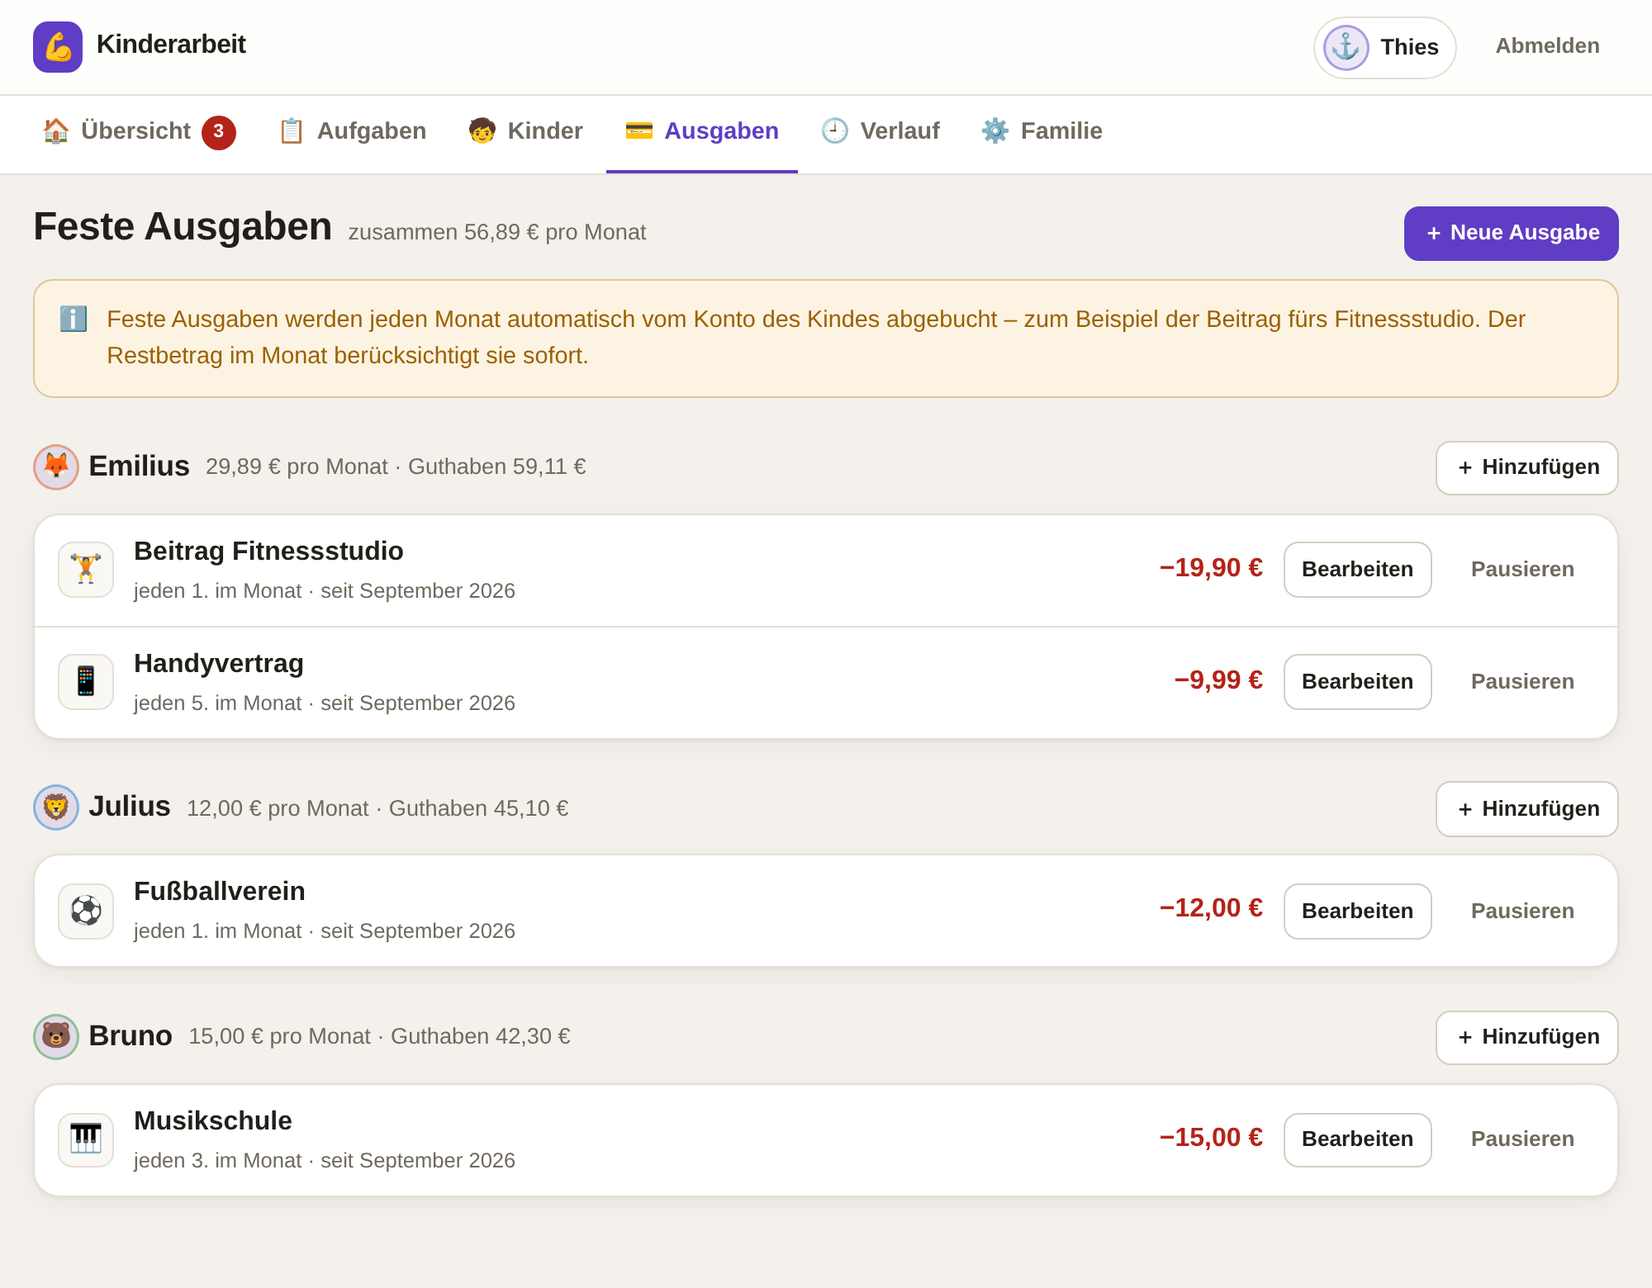
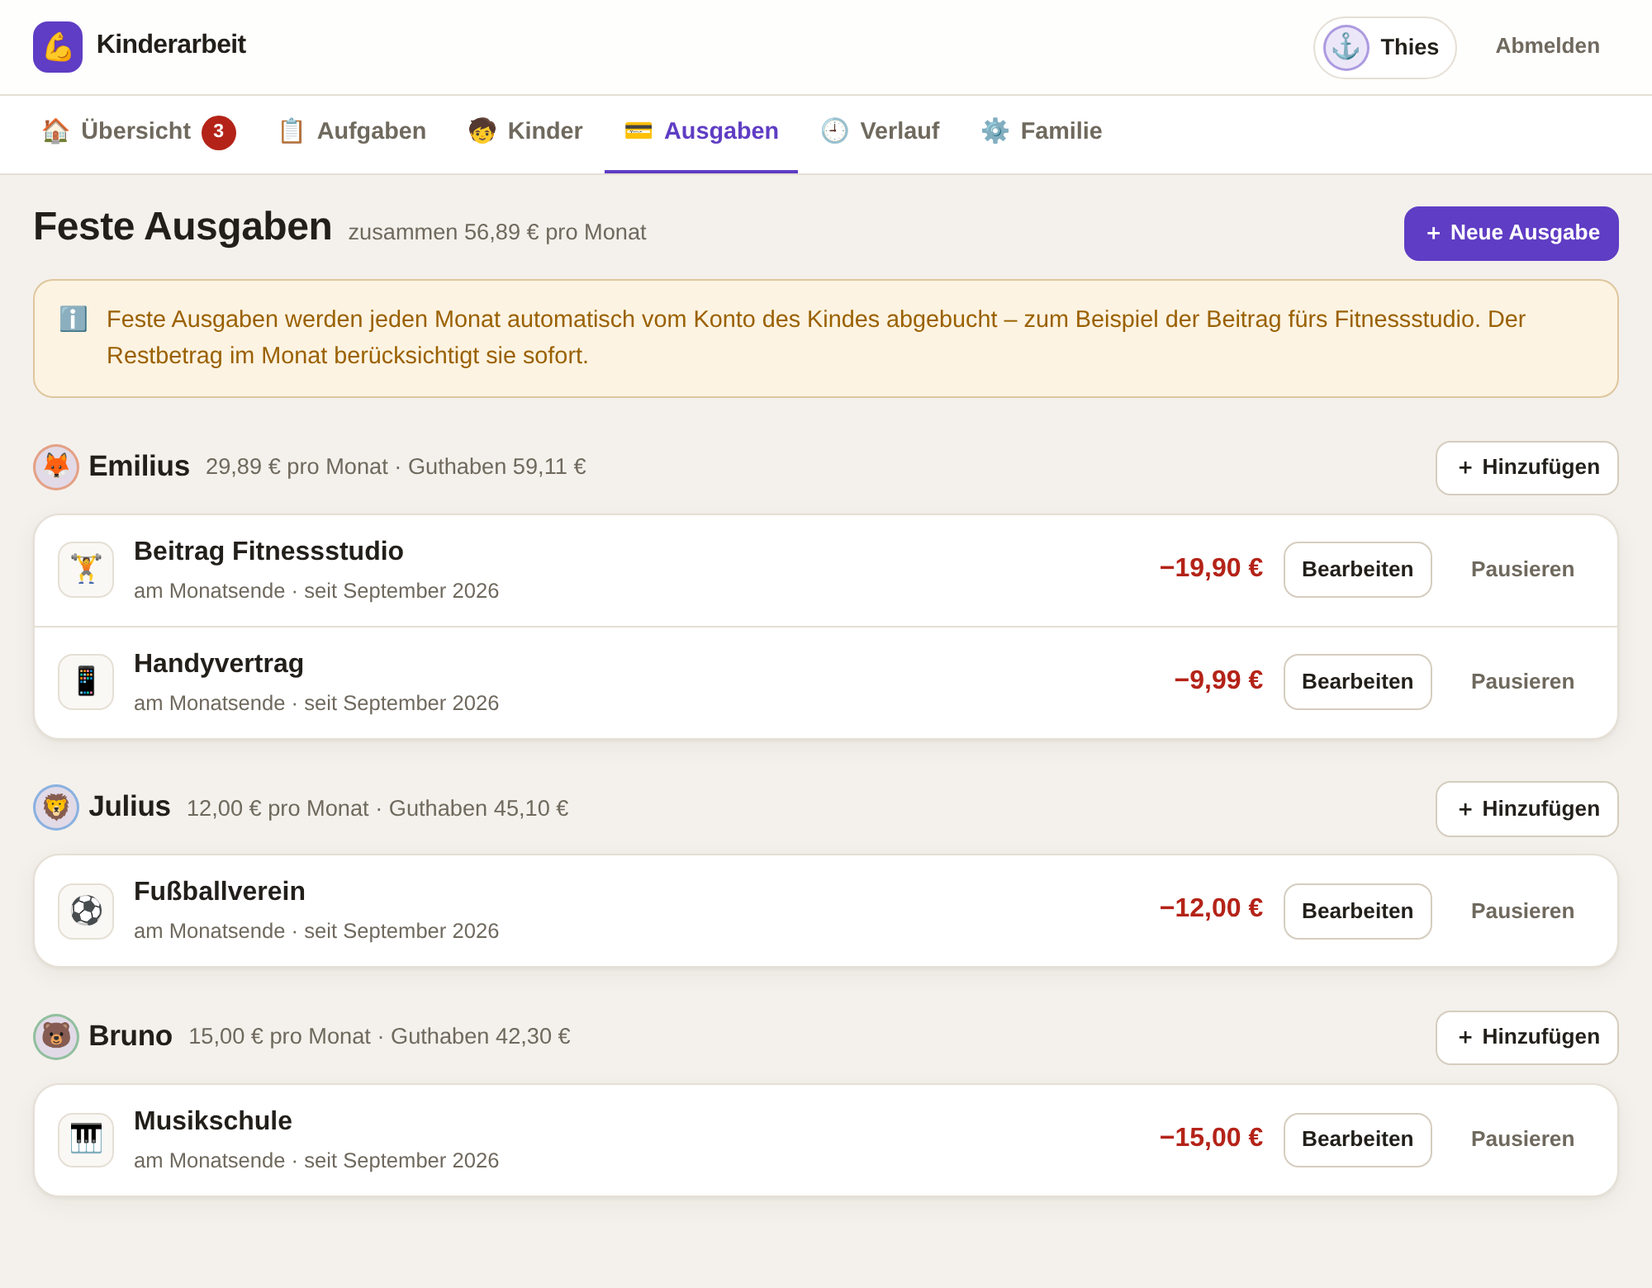
Feste Ausgaben am Monatsende, dazu eine Monatsübersicht
Am 1. stand auf den Konten ein Minus, bevor die Kinder überhaupt etwas
verdienen konnten: die festen Ausgaben wurden am Monatsanfang abgebucht.
Jetzt gehen sie am Monatsende ab, und zwar um 23 Uhr - so steht die
Abbuchung in der Liste unter dem, was am selben Tag noch dazukam.

Technisch bleibt es bei einer Spalte: day_of_month = 31 heißt "Monatsende",
weil Billing jeden Tag jenseits der Monatslänge ohnehin auf den letzten Tag
legt. Das Formular bietet "am Monatsende" als Vorauswahl an, ein fester Tag
bleibt für Abbuchungen möglich, die wirklich früher fällig sind. Bestehende
Datenbanken stellt Database::expensesToMonthEnd() einmalig um; wer danach
von Hand einen anderen Tag setzt, behält ihn.

Neu ist "Monat für Monat": unter Mein Konto und auf der Detailseite eines
Kindes steht jeder Monat mit seinem Saldo untereinander - verdient, feste
Ausgaben, Auszahlungen, Korrekturen und was unter dem Strich blieb, ob plus
oder minus. Jeder Monat steht für sich, am 1. fängt die Rechnung wieder bei
null an; das Guthaben über alle Monate bleibt oben im Kopf stehen. Ein Klick
auf den Monat zeigt die Buchungen dazu. Die Liste ist ein gemeinsames Teil
(views/partials/month-list.php), Eltern- und Kinderansicht zeigen dasselbe.

Der Beispielbestand lässt die festen Ausgaben schon im Vormonat beginnen,
damit die Übersicht einen vollständigen Monat zeigt. Bilder neu aufgenommen,
dazu eine neue Aufnahme der Monatsübersicht.
[…]

diff --git a/bin/selftest.php b/bin/selftest.php
@@ -775,6 +775,63 @@ check('Guthaben ohne Zuschlag',       Ledger::balance($childId), $balance + 200)
 check('Aufraeumen: zurueckgenommen',  Completions::revoke($ohne, (int)$thies['id']), true);
 check('Guthaben wieder am Ausgang',   Ledger::balance($childId), $balance);
 
+echo "\nFeste Ausgaben am Monatsende\n";
+check('Beschriftung Monatsende',      Expenses::dayLabel(31), 'am Monatsende');
+check('Beschriftung fester Tag',      Expenses::dayLabel(5), 'jeden 5. im Monat');
+check('Auch der 29. gilt als Ende',   Expenses::dayLabel(29), 'am Monatsende');
+check('Ohne Angabe ans Monatsende',   (int)Expenses::find(Expenses::create([
+    'child_id'     => (int)$julius['id'],
+    'title'        => 'Vereinsbeitrag',
+    'amount_cents' => 1000,
+    'start_month'  => current_month(),
+    'created_by'   => (int)$thies['id'],
+]))['day_of_month'], Expenses::DAY_MONTH_END);
+
+// Eine Ausgabe, die seit zwei Monaten am Monatsende abgebucht wird.
+$endeId = Expenses::create([
+    'child_id'     => (int)$julius['id'],
+    'title'        => 'Fitnessstudio',
+    'amount_cents' => 1990,
+    'day_of_month' => Expenses::DAY_MONTH_END,
+    'start_month'  => month_shift(current_month(), -2),
+    'created_by'   => (int)$thies['id'],
+]);
+Billing::run(true);
+
+$tage = [];
+foreach (Ledger::forChild((int)$julius['id'], null, 50) as $buchung) {
+    if (($buchung['ref_type'] ?? '') === 'expense' && (int)$buchung['ref_id'] === $endeId) {
+        $tage[substr((string)$buchung['booked_at'], 0, 7)] = (string)$buchung['booked_at'];
+    }
+}
+$vormonat   = month_shift(current_month(), -1);
+$letzterTag = date('t', (int)strtotime($vormonat . '-01 12:00:00'));
+check('Vormonat ist abgebucht',       isset($tage[$vormonat]), true);
+check('Und zwar am letzten Tag',      substr($tage[$vormonat] ?? '', 0, 10), $vormonat . '-' . $letzterTag);
+check('Abends, nach dem Verdienten',  substr($tage[$vormonat] ?? '', 11), '23:00:00');
+check('Laufender Monat noch nicht',   isset($tage[current_month()]), (int)date('j') === (int)date('t'));
+
+echo "\nMonat fuer Monat\n";
+$uebersicht = Ledger::monthlyTotals((int)$julius['id']);
+check('Mehrere Monate aufgelistet',   count($uebersicht) >= 2, true);
+check('Neuester Monat zuerst',        $uebersicht[0]['month'] > $uebersicht[1]['month'], true);
+
+$zeile = null;
+foreach ($uebersicht as $m) {
+    if ($m['month'] === $vormonat) { $zeile = $m; }
+}
+check('Vormonat ist dabei',           $zeile !== null, true);
+check('Feste Ausgaben im Vormonat',   $zeile['expenses'] ?? 0, 1990);
+check('Saldo ist die Bilanz des Monats',
+      ($zeile['earned'] ?? 0) + ($zeile['bonus'] ?? 0) + ($zeile['corrections'] ?? 0)
+      - ($zeile['expenses'] ?? 0) - ($zeile['payouts'] ?? 0),
+      $zeile['net'] ?? 0);
+check('Saldo deckt sich mit monthSummary',
+      $zeile['net'] ?? 0, Ledger::monthSummary((int)$julius['id'], $vormonat)['net']);
+check('Summe aller Monate ist der Kontostand',
+      array_sum(array_column(Ledger::monthlyTotals((int)$julius['id'], 240), 'net')),
+      Ledger::balance((int)$julius['id']));
+
 // Aufraeumen
 foreach (glob($tmp . '/*') ?: [] as $file) {
     @unlink($file);

diff --git a/app/views/partials/month-list.php b/app/views/partials/month-list.php
@@ -1,0 +1,63 @@
+<?php
+/**
+ * Monat fuer Monat mit dem Saldo des jeweiligen Monats.
+ *
+ * Jeder Monat steht fuer sich: am 1. faengt die Rechnung bei null an, am
+ * Monatsende gehen die festen Ausgaben ab. Was dann unter dem Strich steht,
+ * ist der Saldo – ob plus oder minus.
+ *
+ * @var array  $monate  Zeilen aus Ledger::monthlyTotals()
+ * @var string $target  Seite, auf die ein Monat verlinkt ('' = keine Links)
+ * @var array  $extra   zusaetzliche Parameter fuer diesen Link
+ */
+defined('KINDERARBEIT') || exit;
+
+$target = $target ?? '';
+$extra  = $extra  ?? [];
+$jetzt  = current_month();
+?>
+
+<?php if (!$monate): ?>
+  <div class="card empty">
+    <span class="empty__icon" aria-hidden="true">📅</span>
+    Noch kein Monat mit Buchungen.
+  </div>
+<?php else: ?>
+  <div class="card card--flush">
+    <ul class="list">
+      <?php foreach ($monate as $monat): ?>
+        <?php
+        $saldo  = (int)$monat['net'];
+        $laeuft = $monat['month'] === $jetzt;
+
+        // Nur nennen, was es in diesem Monat auch gab.
+        $teile = [];
+        if ($monat['earned'] !== 0)      { $teile[] = 'verdient ' . Money::format($monat['earned']); }
+        if ($monat['bonus'] !== 0)       { $teile[] = 'Bonus ' . Money::format($monat['bonus']); }
+        if ($monat['expenses'] !== 0)    { $teile[] = 'feste Ausgaben ' . Money::format(-$monat['expenses']); }
+        if ($monat['payouts'] !== 0)     { $teile[] = 'ausgezahlt ' . Money::format(-$monat['payouts']); }
+        if ($monat['corrections'] !== 0) { $teile[] = 'Korrekturen ' . Money::format($monat['corrections'], true); }
+        ?>
+        <li>
+          <div class="entry">
+            <div class="entry__icon" aria-hidden="true"><?= $laeuft ? '⏳' : '📅' ?></div>
+            <div class="entry__body">
+              <div class="entry__title">
+                <?php if ($target !== ''): ?>
+                  <a href="<?= e(url($target, $extra + ['monat' => $monat['month']])) ?>"><?= e(month_label($monat['month'])) ?></a>
+                <?php else: ?>
+                  <?= e(month_label($monat['month'])) ?>
+                <?php endif; ?>
+                <?php if ($laeuft): ?><span class="pill tiny">läuft noch</span><?php endif; ?>
+              </div>
+              <div class="entry__meta"><?= e($teile ? implode(' · ', $teile) : 'nichts gebucht') ?></div>
+            </div>
+            <div class="entry__amount <?= $saldo > 0 ? 'value-positive' : ($saldo < 0 ? 'value-negative' : 'muted') ?>">
+              <?= e(Money::format($saldo, true)) ?>
+            </div>
+          </div>
+        </li>
+      <?php endforeach; ?>
+    </ul>
+  </div>
+<?php endif; ?>

diff --git a/app/Repo/Ledger.php b/app/Repo/Ledger.php
@@ -251,6 +251,48 @@ final class Ledger
         ];
     }
 
+    /**
+     * Monat fuer Monat, neueste zuerst: was zusammenkam, was abging und was
+     * unter dem Strich blieb. Jeder Monat steht fuer sich – am 1. faengt die
+     * Rechnung wieder bei null an, der Saldo ist die Bilanz genau dieses Monats.
+     *
+     * Dieselben Schluessel wie monthSummary(), dazu 'month'.
+     */
+    public static function monthlyTotals(int $childId, int $limit = 24): array
+    {
+        $stmt = Database::pdo()->prepare(
+            "SELECT booked_month AS month,
+                COALESCE(SUM(CASE WHEN category = 'task'    AND amount_cents > 0 THEN amount_cents END), 0) AS earned,
+                COALESCE(SUM(CASE WHEN category = 'bonus'   AND amount_cents > 0 THEN amount_cents END), 0) AS bonus,
+                COALESCE(SUM(CASE WHEN category = 'expense' THEN -amount_cents END), 0)                 AS expenses,
+                COALESCE(SUM(CASE WHEN category = 'payout'  THEN -amount_cents END), 0)                 AS payouts,
+                COALESCE(SUM(CASE WHEN category = 'correction' THEN amount_cents END), 0)               AS corrections,
+                COALESCE(SUM(amount_cents), 0)                                                          AS net,
+                COUNT(*)                                                                                AS entries
+               FROM ledger
+              WHERE child_id = :child
+           GROUP BY booked_month
+           ORDER BY booked_month DESC
+              LIMIT " . max(1, $limit)
+        );
+        $stmt->execute(['child' => $childId]);
+
+        $monate = [];
+        foreach ($stmt->fetchAll() as $row) {
+            $monate[] = [
+                'month'       => (string)$row['month'],
+                'earned'      => (int)$row['earned'],
+                'bonus'       => (int)$row['bonus'],
+                'expenses'    => (int)$row['expenses'],
+                'payouts'     => (int)$row['payouts'],
+                'corrections' => (int)$row['corrections'],
+                'net'         => (int)$row['net'],
+                'entries'     => (int)$row['entries'],
+            ];
+        }
+        return $monate;
+    }
+
     /** Buchungen eines Kindes, optional auf einen Monat begrenzt. */
     public static function forChild(int $childId, ?string $month = null, int $limit = 100): array
     {

diff --git a/app/views/parent/child-detail.php b/app/views/parent/child-detail.php
@@ -115,6 +115,21 @@ foreach ($back as $key => $value) {
 
 <section class="section">
   <div class="section__head">
+    <h2>Monat für Monat</h2>
+    <span class="section__hint">Saldo je Monat</span>
+  </div>
+  <?= View::render('partials/month-list', [
+        'monate' => $monate, 'target' => 'kind-detail', 'extra' => ['id' => $childId],
+  ]) ?>
+  <p class="field__hint">
+    Jeder Monat fängt am 1. bei 0 an; die festen Ausgaben gehen am Monatsende ab.
+    Der Saldo ist die Bilanz genau dieses Monats – ein Klick auf den Monat zeigt
+    die Buchungen dazu.
+  </p>
+</section>
+
+<section class="section">
+  <div class="section__head">
     <h2>Feste Ausgaben</h2>
     <div class="section__action">
       <a class="btn btn--sm" href="<?= e(url('ausgabe-form', ['kind' => $childId])) ?>">＋ Hinzufügen</a>
@@ -135,7 +150,7 @@ foreach ($back as $key => $value) {
               <div class="entry__icon" aria-hidden="true"><?= e($expense['emoji']) ?></div>
               <div class="entry__body">
                 <div class="entry__title"><?= e($expense['title']) ?></div>
-                <div class="entry__meta">jeden <?= (int)$expense['day_of_month'] ?>. im Monat, seit <?= e(month_label($expense['start_month'])) ?></div>
+                <div class="entry__meta"><?= e(Expenses::dayLabel((int)$expense['day_of_month'])) ?>, seit <?= e(month_label($expense['start_month'])) ?></div>
               </div>
               <div class="entry__amount value-negative"><?= e(Money::format(-(int)$expense['amount_cents'])) ?></div>
               <a class="btn btn--ghost btn--sm" href="<?= e(url('ausgabe-form', ['id' => (int)$expense['id']])) ?>">Bearbeiten</a>

diff --git a/bin/demo-data.php b/bin/demo-data.php
@@ -127,18 +127,20 @@ Ledger::book((int)$bruno['id'], 4000, 'Übertrag aus dem Sparschwein', 'correcti
     (int)$thies['id'], month_shift(current_month(), -1) . '-28 10:00:00');
 
 // --- Feste Ausgaben ----------------------------------------------------------
-$startMonth = current_month();
+// Sie laufen schon seit dem Vormonat, damit die Monatsuebersicht einen
+// vollstaendigen Monat zeigt: verdient, am Monatsende abgebucht, Saldo.
+$startMonth = month_shift(current_month(), -1);
 Expenses::create(['child_id' => (int)$emilius['id'], 'title' => 'Beitrag Fitnessstudio',
-    'emoji' => '🏋', 'amount_cents' => 1990, 'day_of_month' => 1,
+    'emoji' => '🏋', 'amount_cents' => 1990,
     'start_month' => $startMonth, 'created_by' => (int)$thies['id']]);
 Expenses::create(['child_id' => (int)$emilius['id'], 'title' => 'Handyvertrag',
-    'emoji' => '📱', 'amount_cents' => 999, 'day_of_month' => 5,
+    'emoji' => '📱', 'amount_cents' => 999,
     'start_month' => $startMonth, 'created_by' => (int)$birgitta['id']]);
 Expenses::create(['child_id' => (int)$julius['id'], 'title' => 'Fußballverein',
-    'emoji' => '⚽', 'amount_cents' => 1200, 'day_of_month' => 1,
+    'emoji' => '⚽', 'amount_cents' => 1200,
     'start_month' => $startMonth, 'created_by' => (int)$birgitta['id']]);
 Expenses::create(['child_id' => (int)$bruno['id'], 'title' => 'Musikschule',
-    'emoji' => '🎹', 'amount_cents' => 1500, 'day_of_month' => 3,
+    'emoji' => '🎹', 'amount_cents' => 1500,
     'start_month' => $startMonth, 'created_by' => (int)$thies['id']]);
 
 // --- Erledigte und bestaetigte Aufgaben --------------------------------------

diff --git a/app/Repo/Expenses.php b/app/Repo/Expenses.php
@@ -9,6 +9,19 @@ defined('KINDERARBEIT') || exit;
  */
 final class Expenses
 {
+    /**
+     * Buchungstag „am Monatsende“. Billing legt jeden Tag ueber dem 28. auf den
+     * letzten Tag des jeweiligen Monats – der 31. steht deshalb fuer „Monatsende“,
+     * ohne dass das Schema eine zweite Spalte braucht.
+     */
+    public const DAY_MONTH_END = 31;
+
+    /** Buchungstag als Text: „am Monatsende“ oder „jeden 5. im Monat“. */
+    public static function dayLabel(int $day): string
+    {
+        return $day > 28 ? 'am Monatsende' : 'jeden ' . $day . '. im Monat';
+    }
+
     public static function find(int $id): ?array
     {
         $stmt = Database::pdo()->prepare(
@@ -94,7 +107,7 @@ final class Expenses
             'title'       => $data['title'],
             'emoji'       => $data['emoji'] ?? '💳',
             'amount'      => $data['amount_cents'],
-            'day'         => $data['day_of_month'] ?? 1,
+            'day'         => $data['day_of_month'] ?? self::DAY_MONTH_END,
             'start_month' => $data['start_month'] ?? current_month(),
             'end_month'   => $data['end_month'] ?? null,
             'created_by'  => $data['created_by'],
@@ -116,7 +129,7 @@ final class Expenses
             'title'     => $data['title'],
             'emoji'     => $data['emoji'] ?? '💳',
             'amount'    => $data['amount_cents'],
-            'day'       => $data['day_of_month'] ?? 1,
+            'day'       => $data['day_of_month'] ?? self::DAY_MONTH_END,
             'end_month' => $data['end_month'] ?? null,
             'id'        => $id,
         ]);

diff --git a/app/Database.php b/app/Database.php
@@ -148,7 +148,7 @@ final class Database
             title        TEXT    NOT NULL,
             emoji        TEXT    NOT NULL DEFAULT '💳',
             amount_cents INTEGER NOT NULL,
-            day_of_month INTEGER NOT NULL DEFAULT 1,
+            day_of_month INTEGER NOT NULL DEFAULT 31,   -- 31 = am Monatsende
             start_month  TEXT    NOT NULL,
             end_month    TEXT,
             is_active    INTEGER NOT NULL DEFAULT 1,
@@ -223,6 +223,26 @@ final class Database
         $pdo->exec('CREATE UNIQUE INDEX IF NOT EXISTS idx_users_token ON users (access_token) WHERE access_token IS NOT NULL');
 
         self::relaxExpenseBookings($pdo);
+        self::expensesToMonthEnd($pdo);
+    }
+
+    /**
+     * Feste Ausgaben wurden frueher am 1. abgebucht. Dann steht das Konto am
+     * Monatsanfang im Minus, bevor das Kind ueberhaupt etwas verdienen konnte.
+     * Deshalb wandern bestehende Ausgaben einmalig ans Monatsende; ein spaeter
+     * von Hand gesetzter Tag bleibt dadurch erhalten.
+     */
+    private static function expensesToMonthEnd(PDO $pdo): void
+    {
+        $stmt = $pdo->prepare('SELECT value FROM settings WHERE key = :key');
+        $stmt->execute(['key' => 'expenses_month_end']);
+        if ($stmt->fetchColumn() !== false) {
+            return;
+        }
+
+        $pdo->exec('UPDATE expenses SET day_of_month = 31');
+        $pdo->prepare('INSERT INTO settings (key, value) VALUES (:key, :value)')
+            ->execute(['key' => 'expenses_month_end', 'value' => now()]);
     }
 
     /**

diff --git a/app/views/child/account.php b/app/views/child/account.php
@@ -70,6 +70,20 @@ $isCurrentMonth = $month === current_month();
   </div>
 </section>
 
+<section class="section">
+  <div class="section__head">
+    <h2>Monat für Monat</h2>
+    <span class="section__hint">was am Ende übrig blieb</span>
+  </div>
+  <?= View::render('partials/month-list', [
+        'monate' => $monate, 'target' => 'kind-konto', 'extra' => [],
+  ]) ?>
+  <p class="field__hint">
+    Jeder Monat fängt am 1. bei 0 an. Am Monatsende gehen die festen Ausgaben ab –
+    was dann übrig ist, steht rechts. Tippe auf einen Monat, um seine Buchungen zu sehen.
+  </p>
+</section>
+
 <?php if ($expenses): ?>
   <?php
   // Nur zaehlen, was schon laeuft. Eine Ausgabe, die erst naechsten Monat
@@ -97,7 +111,7 @@ $isCurrentMonth = $month === current_month();
               <div class="entry__body">
                 <div class="entry__title"><?= e($expense['title']) ?></div>
                 <div class="entry__meta">
-                  jeden <?= (int)$expense['day_of_month'] ?>. im Monat<?php
+                  <?= e(Expenses::dayLabel((int)$expense['day_of_month'])) ?><?php
                   if ($expense['start_month'] > current_month()) {
                       echo ' · erst ab ' . e(month_label((string)$expense['start_month']));
                   }

diff --git a/app/views/parent/expense-form.php b/app/views/parent/expense-form.php
@@ -46,13 +46,20 @@ $emoji        = $expense['emoji'] ?? '💳';
       </div>
       <div class="field">
         <label class="field__label" for="day_of_month">Abbuchung am</label>
+        <?php $gewaehlt = (int)($expense['day_of_month'] ?? Expenses::DAY_MONTH_END); ?>
         <select class="select" id="day_of_month" name="day_of_month">
+          <option value="<?= Expenses::DAY_MONTH_END ?>"<?= $gewaehlt > 28 ? ' selected' : '' ?>>
+            am Monatsende
+          </option>
           <?php for ($day = 1; $day <= 28; $day++): ?>
-            <option value="<?= $day ?>"<?= (int)($expense['day_of_month'] ?? 1) === $day ? ' selected' : '' ?>>
+            <option value="<?= $day ?>"<?= $gewaehlt === $day ? ' selected' : '' ?>>
               <?= $day ?>. des Monats
             </option>
           <?php endfor; ?>
         </select>
+        <p class="field__hint">
+          Am Monatsende abgebucht steht das Konto nicht schon am 1. im Minus.
+        </p>
       </div>
     </div>
 

diff --git a/app/Billing.php b/app/Billing.php
@@ -90,7 +90,12 @@ final class Billing
         try {
             return (bool)Database::transaction(function (PDO $pdo) use ($expense, $month) {
                 $day = self::effectiveDay((int)$expense['day_of_month'], $month);
-                $bookedAt = $month . '-' . str_pad((string)$day, 2, '0', STR_PAD_LEFT) . ' 06:00:00';
+
+                // Am Monatsende abends buchen, damit die Abbuchung in der Liste
+                // unter dem steht, was das Kind an diesem Tag noch verdient hat.
+                $letzter = (int)date('t', (int)strtotime($month . '-01 12:00:00'));
+                $zeit    = $day === $letzter ? '23:00:00' : '06:00:00';
+                $bookedAt = $month . '-' . str_pad((string)$day, 2, '0', STR_PAD_LEFT) . ' ' . $zeit;
 
                 $ledgerId = Ledger::book(
                     (int)$expense['child_id'],

diff --git a/app/views/parent/expenses.php b/app/views/parent/expenses.php
@@ -57,7 +57,7 @@ $grandTotal = array_sum($totals);
                     <?php if (!$isActive): ?><span class="pill tiny">pausiert</span><?php endif; ?>
                   </div>
                   <div class="entry__meta">
-                    jeden <?= (int)$expense['day_of_month'] ?>. im Monat · seit <?= e(month_label($expense['start_month'])) ?>
+                    <?= e(Expenses::dayLabel((int)$expense['day_of_month'])) ?> · seit <?= e(month_label($expense['start_month'])) ?>
                     <?php if (!empty($expense['end_month'])): ?> · bis <?= e(month_label($expense['end_month'])) ?><?php endif; ?>
                   </div>
                 </div>

diff --git a/app/views/child/dashboard.php b/app/views/child/dashboard.php
@@ -206,7 +206,7 @@ $rest = $summary['net'];
               <div class="entry__icon" aria-hidden="true"><?= e($expense['emoji']) ?></div>
               <div class="entry__body">
                 <div class="entry__title"><?= e($expense['title']) ?></div>
-                <div class="entry__meta">jeden <?= (int)$expense['day_of_month'] ?>. im Monat</div>
+                <div class="entry__meta"><?= e(Expenses::dayLabel((int)$expense['day_of_month'])) ?></div>
               </div>
               <div class="entry__amount value-negative"><?= e(Money::format(-(int)$expense['amount_cents'])) ?></div>
             </div>
